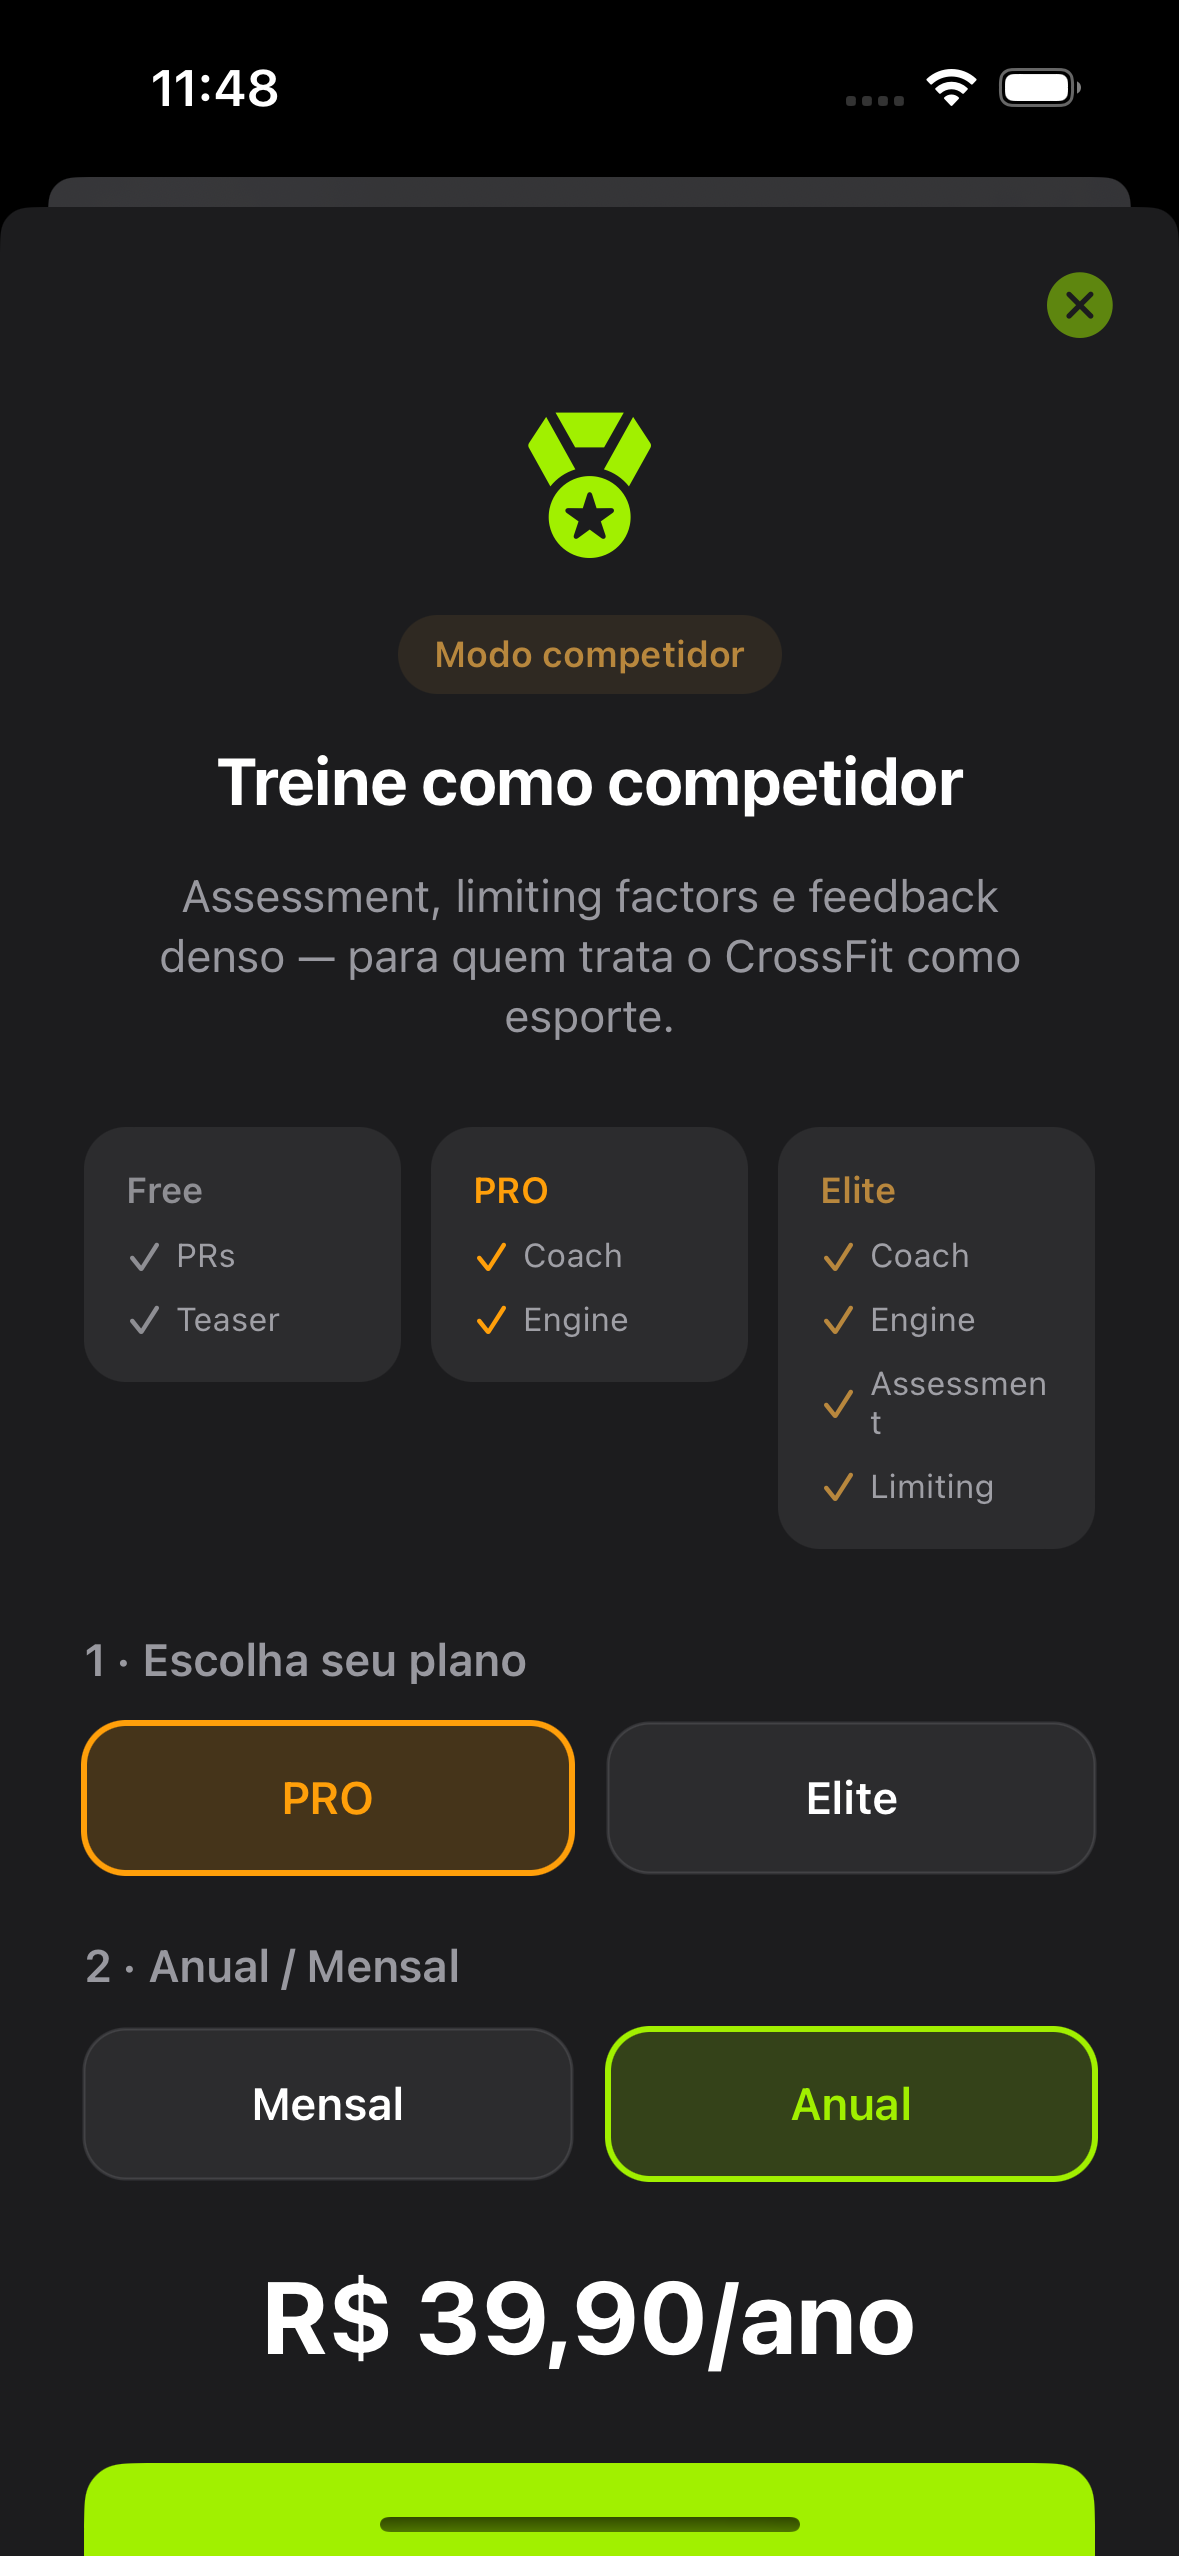
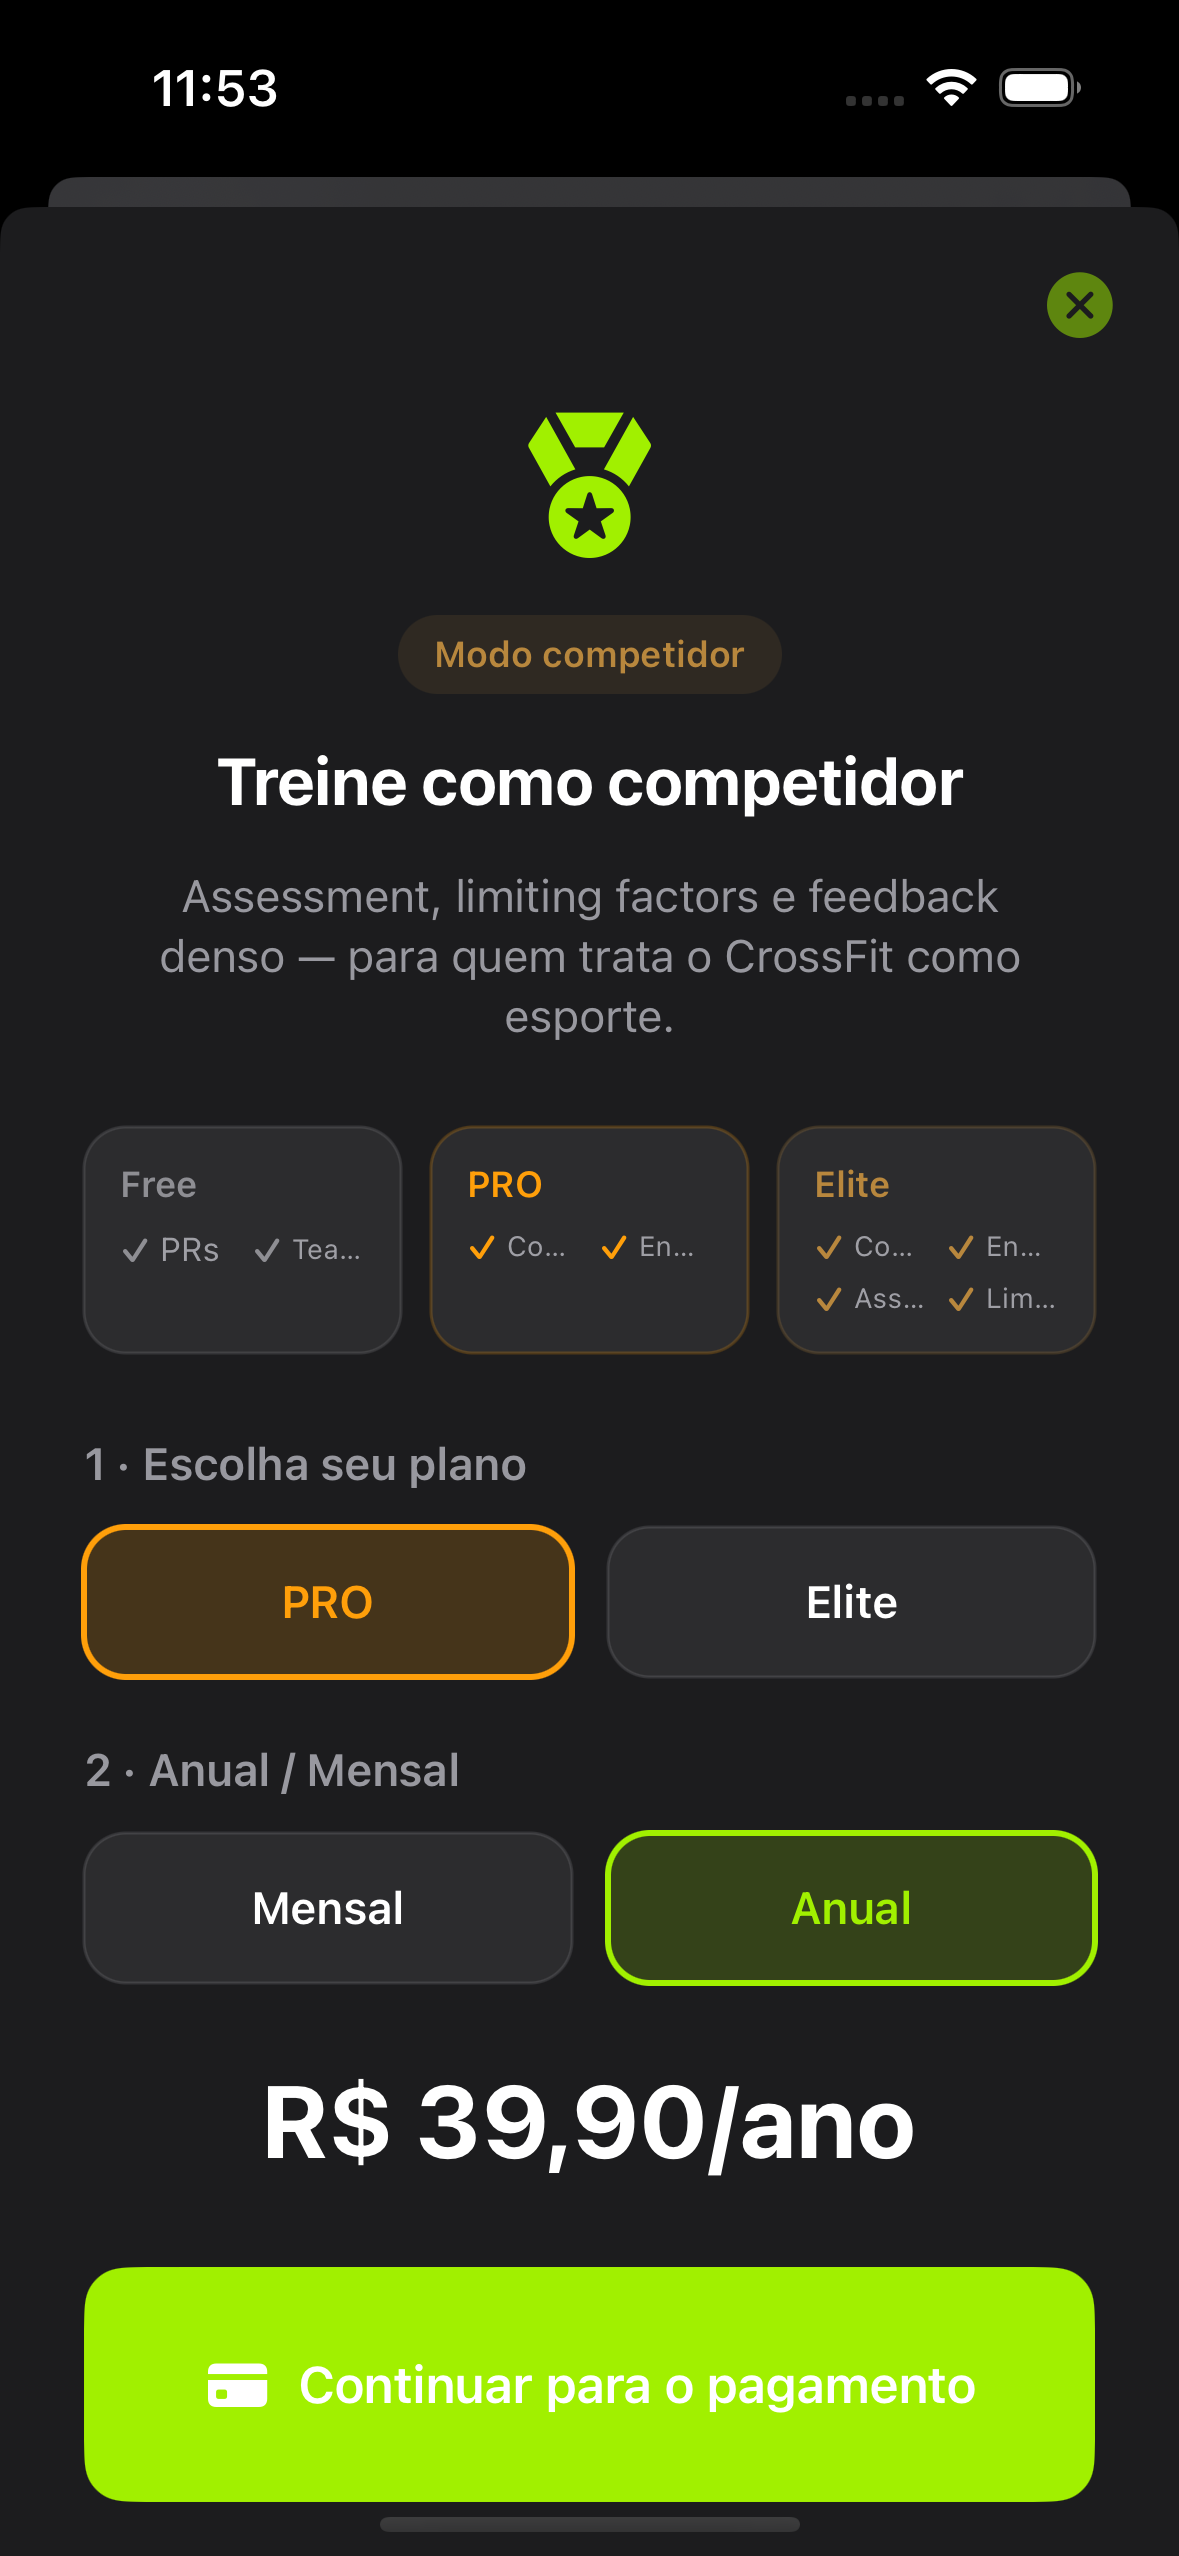
fix(paywall): equaliza chips Free/PRO/Elite e troca ref 07 pelo print real da B.

diff --git a/Packages/PROUpgrade/Sources/PROUpgrade/PROUpgradeVariants.swift b/Packages/PROUpgrade/Sources/PROUpgrade/PROUpgradeVariants.swift
@@ -275,6 +275,7 @@ extension PROUpgradePurchaseContent {
     }
 
     private var lightCompareRow: some View {
+        // Altura igual entre colunas (Elite tem 4 checks) — composição estável.
         HStack(alignment: .top, spacing: 10) {
             compareChip(
                 title: Strings.Elite.planFree,
@@ -293,28 +294,49 @@ extension PROUpgradePurchaseContent {
                 lines: ["Coach", "Engine", "Assessment", "Limiting"]
             )
         }
+        .fixedSize(horizontal: false, vertical: true)
     }
 
     private func compareChip(title: String, accent: Color, lines: [String]) -> some View {
-        VStack(alignment: .leading, spacing: 8) {
+        VStack(alignment: .leading, spacing: 0) {
             Text(title)
                 .font(.caption.bold())
                 .foregroundStyle(accent)
-            ForEach(lines, id: \.self) { line in
-                HStack(spacing: 4) {
-                    Image(systemName: "checkmark")
-                        .font(.caption2.bold())
-                        .foregroundStyle(accent)
-                    Text(line)
-                        .font(.caption2)
-                        .foregroundStyle(.secondary)
+                .padding(.bottom, 8)
+
+            // Grid 2×N — Elite com 4 itens fica na mesma “caixa” que Free/PRO.
+            LazyVGrid(
+                columns: [
+                    GridItem(.flexible(), spacing: 6),
+                    GridItem(.flexible(), spacing: 6),
+                ],
+                alignment: .leading,
+                spacing: 6
+            ) {
+                ForEach(lines, id: \.self) { line in
+                    HStack(spacing: 3) {
+                        Image(systemName: "checkmark")
+                            .font(.system(size: 9, weight: .bold))
+                            .foregroundStyle(accent)
+                        Text(line)
+                            .font(.caption2)
+                            .foregroundStyle(.secondary)
+                            .lineLimit(1)
+                            .minimumScaleFactor(0.85)
+                    }
                 }
             }
+
+            Spacer(minLength: 0)
         }
-        .padding(14)
-        .frame(maxWidth: .infinity, alignment: .topLeading)
+        .padding(12)
+        .frame(maxWidth: .infinity, maxHeight: .infinity, alignment: .topLeading)
         .background(AppDesign.Colors.cardBackground)
         .cornerRadius(14)
+        .overlay(
+            RoundedRectangle(cornerRadius: 14)
+                .stroke(accent.opacity(0.22), lineWidth: 1)
+        )
     }
 
     private func stepLabel(_ text: String) -> some View {

diff --git a/spdd/prompt/CPR-014-20261029-[Design]-paywall-conversion-variants.md b/spdd/prompt/CPR-014-20261029-[Design]-paywall-conversion-variants.md
@@ -22,7 +22,8 @@ Flag: `UITEST_PAYWALL_VARIANT=a|b|c` · **produção: B** (escolhida 2026-10-29)
 
 ## B — ajuste compare (2026-10-29)
 
-Abaixo do subtítulo: chips Free / PRO / Elite.
+Abaixo do subtítulo: chips Free / PRO / Elite (altura igual; checks em grid 2 colunas).
 - Free: PRs, Teaser
 - PRO: Coach, Engine
 - Elite: Coach, Engine, Assessment, Limiting (mostra que Elite inclui o PRO)
+- Ref visual: `docs/screenshots/design-refs/07-paywall-ref.png` (= paywall B)
